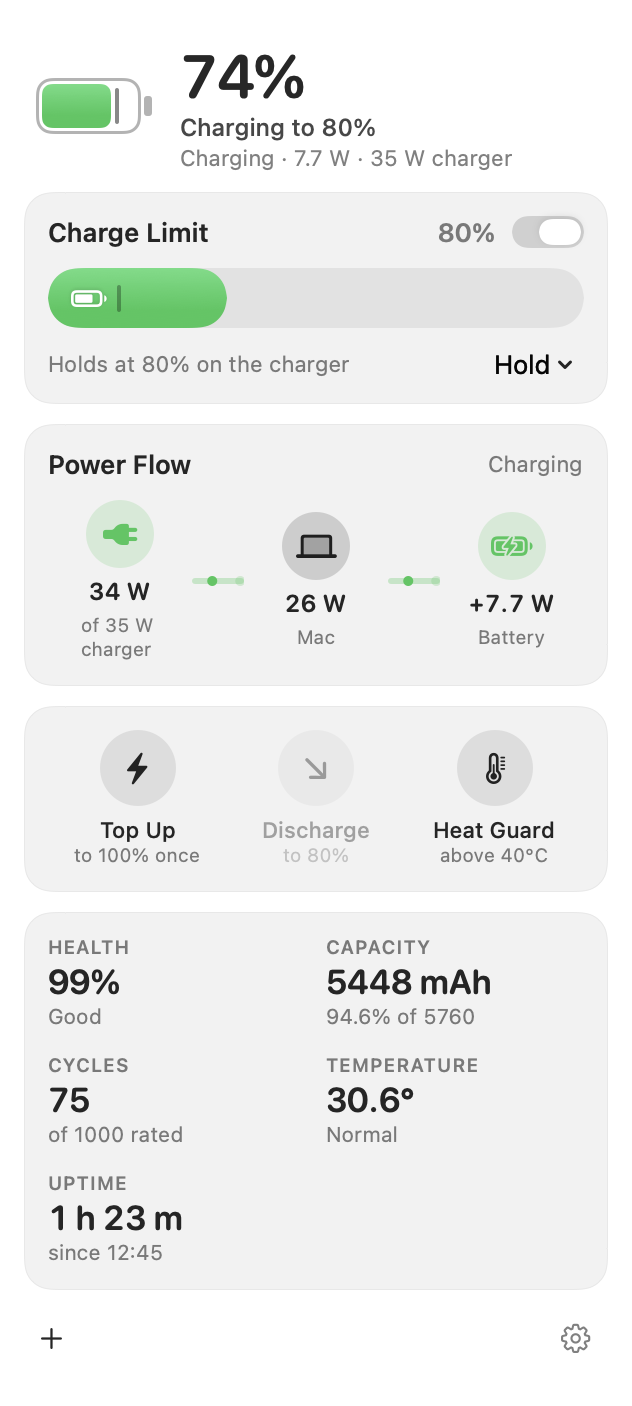
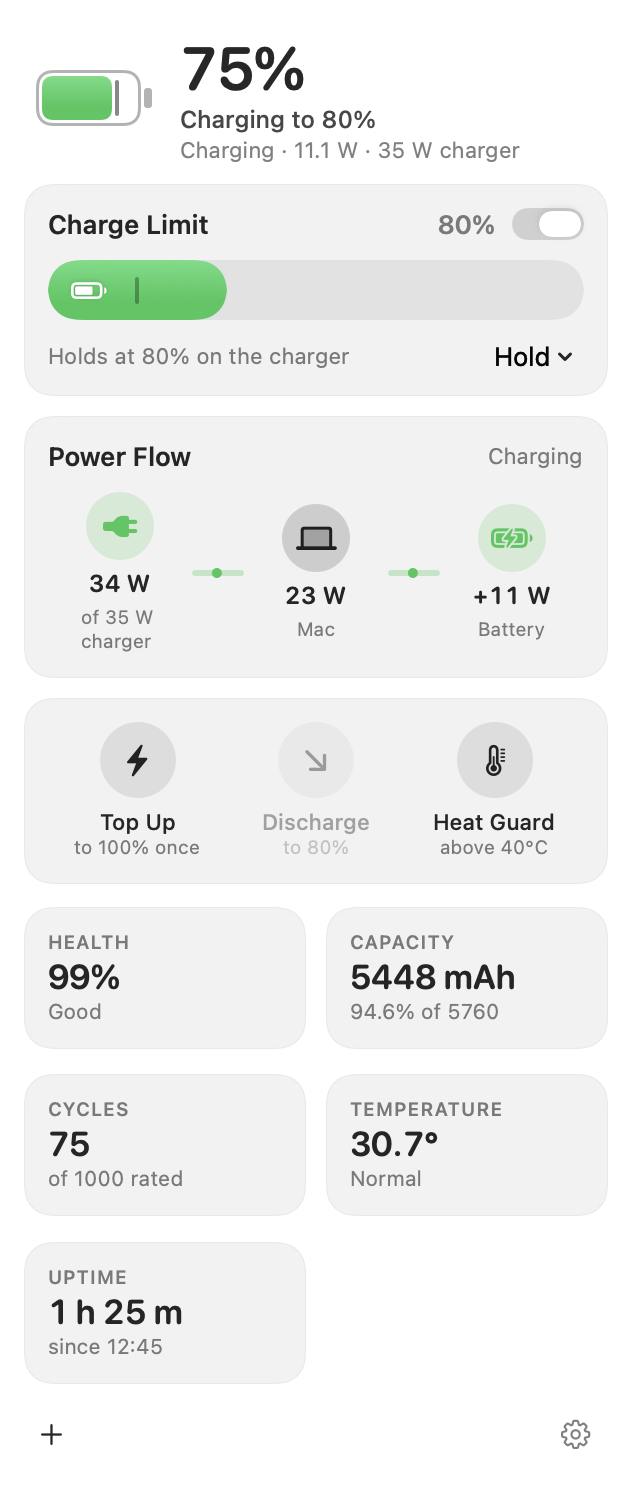
Give each stat its own tile

diff --git a/Sources/BatteryHealth/PanelView.swift b/Sources/BatteryHealth/PanelView.swift
@@ -255,44 +255,42 @@ struct PanelView: View {
             .sorted { order.firstIndex(of: $0.item)! < order.firstIndex(of: $1.item)! }
     }
 
+    /// Each stat is its own small tile, two per row, like Control Center modules.
+    @ViewBuilder
     private var healthModule: some View {
-        Module {
-            if let b = model.battery {
-                let items = statItems(b)
-                Grid(alignment: .leading, horizontalSpacing: 10, verticalSpacing: 12) {
-                    ForEach(Array(stride(from: 0, to: items.count, by: 2)), id: \.self) { i in
-                        GridRow {
-                            ForEach(items[i..<min(i + 2, items.count)]) { s in
-                                Stat(label: s.item.title, value: s.value, detail: s.detail)
-                                    .padding(4)
-                                    .background(
-                                        RoundedRectangle(cornerRadius: 8, style: .continuous)
-                                            .fill(.primary.opacity(dragging == s.item ? 0.08 : 0))
-                                    )
-                                    .padding(-4)
-                                    .opacity(dragging == s.item ? 0.5 : 1)
-                                    .contentShape(Rectangle())
-                                    .hoverRemovable(s.item, alignment: .topTrailing, badgeSize: 16, outside: false) {
-                                        setHidden(s.item, true)
-                                    }
-                                    .onDrag {
-                                        dragging = s.item
-                                        return NSItemProvider(object: s.item.rawValue as NSString)
-                                    }
-                                    .onDrop(of: [.text], delegate: StatDropDelegate(target: s.item, dragging: $dragging,
-                                                                                    move: move))
-                            }
-                            if i + 1 == items.count {
-                                Color.clear.gridCellUnsizedAxes([.horizontal, .vertical])
-                            }
+        if let b = model.battery {
+            let items = statItems(b)
+            Grid(horizontalSpacing: Metrics.gap, verticalSpacing: Metrics.gap) {
+                ForEach(Array(stride(from: 0, to: items.count, by: 2)), id: \.self) { i in
+                    GridRow {
+                        ForEach(items[i..<min(i + 2, items.count)]) { s in
+                            statTile(s)
+                        }
+                        if i + 1 == items.count {
+                            Color.clear.gridCellUnsizedAxes([.horizontal, .vertical])
                         }
                     }
                 }
-                .frame(maxWidth: .infinity, alignment: .leading)
-            } else {
-                Text("No battery found").foregroundStyle(.secondary)
             }
+        } else {
+            Module { Text("No battery found").foregroundStyle(.secondary) }
         }
+    }
+
+    private func statTile(_ s: StatItem) -> some View {
+        Module {
+            Stat(label: s.item.title, value: s.value, detail: s.detail)
+        }
+        .frame(maxHeight: .infinity)
+        .scaleEffect(dragging == s.item ? 0.96 : 1)
+        .opacity(dragging == s.item ? 0.5 : 1)
+        .contentShape(RoundedRectangle(cornerRadius: Metrics.module, style: .continuous))
+        .hoverRemovable(s.item, badgeSize: 16) { setHidden(s.item, true) }
+        .onDrag {
+            dragging = s.item
+            return NSItemProvider(object: s.item.rawValue as NSString)
+        }
+        .onDrop(of: [.text], delegate: StatDropDelegate(target: s.item, dragging: $dragging, move: move))
     }
 
     private func macOSLimitWarning(_ limit: Int) -> some View {
